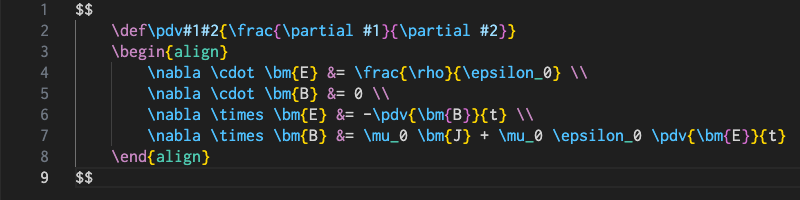
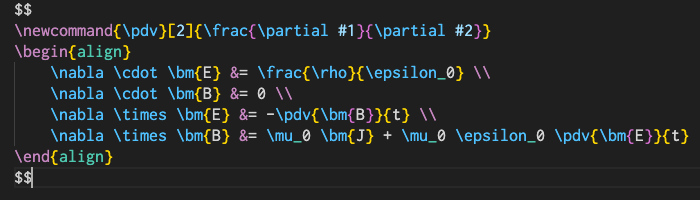
fixed syntax

diff --git a/CHANGELOG.md b/CHANGELOG.md
@@ -1,5 +1,10 @@
 # Change Log
 
+## [0.0.2]
+
+- Fixed syntax
+- Fixed screenshot
+
 ## [0.0.1]
 
 - Initial release
